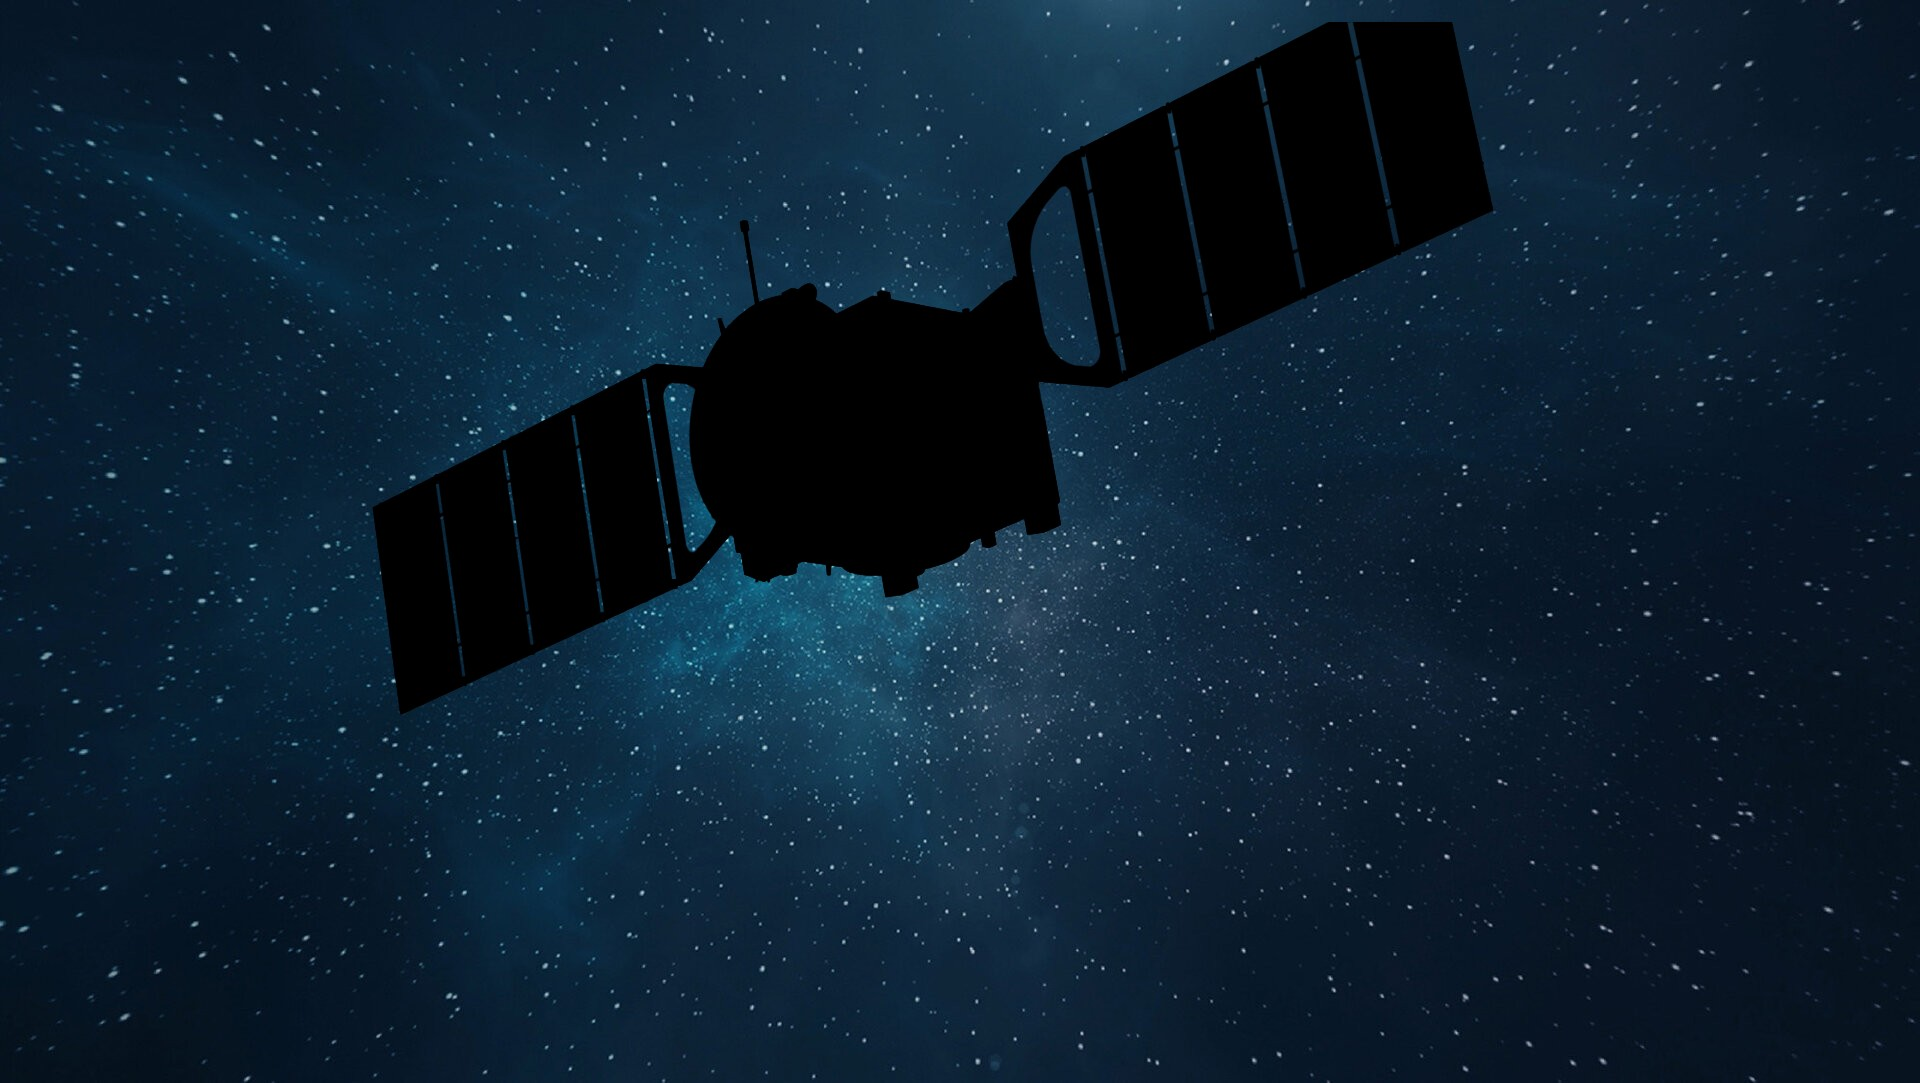
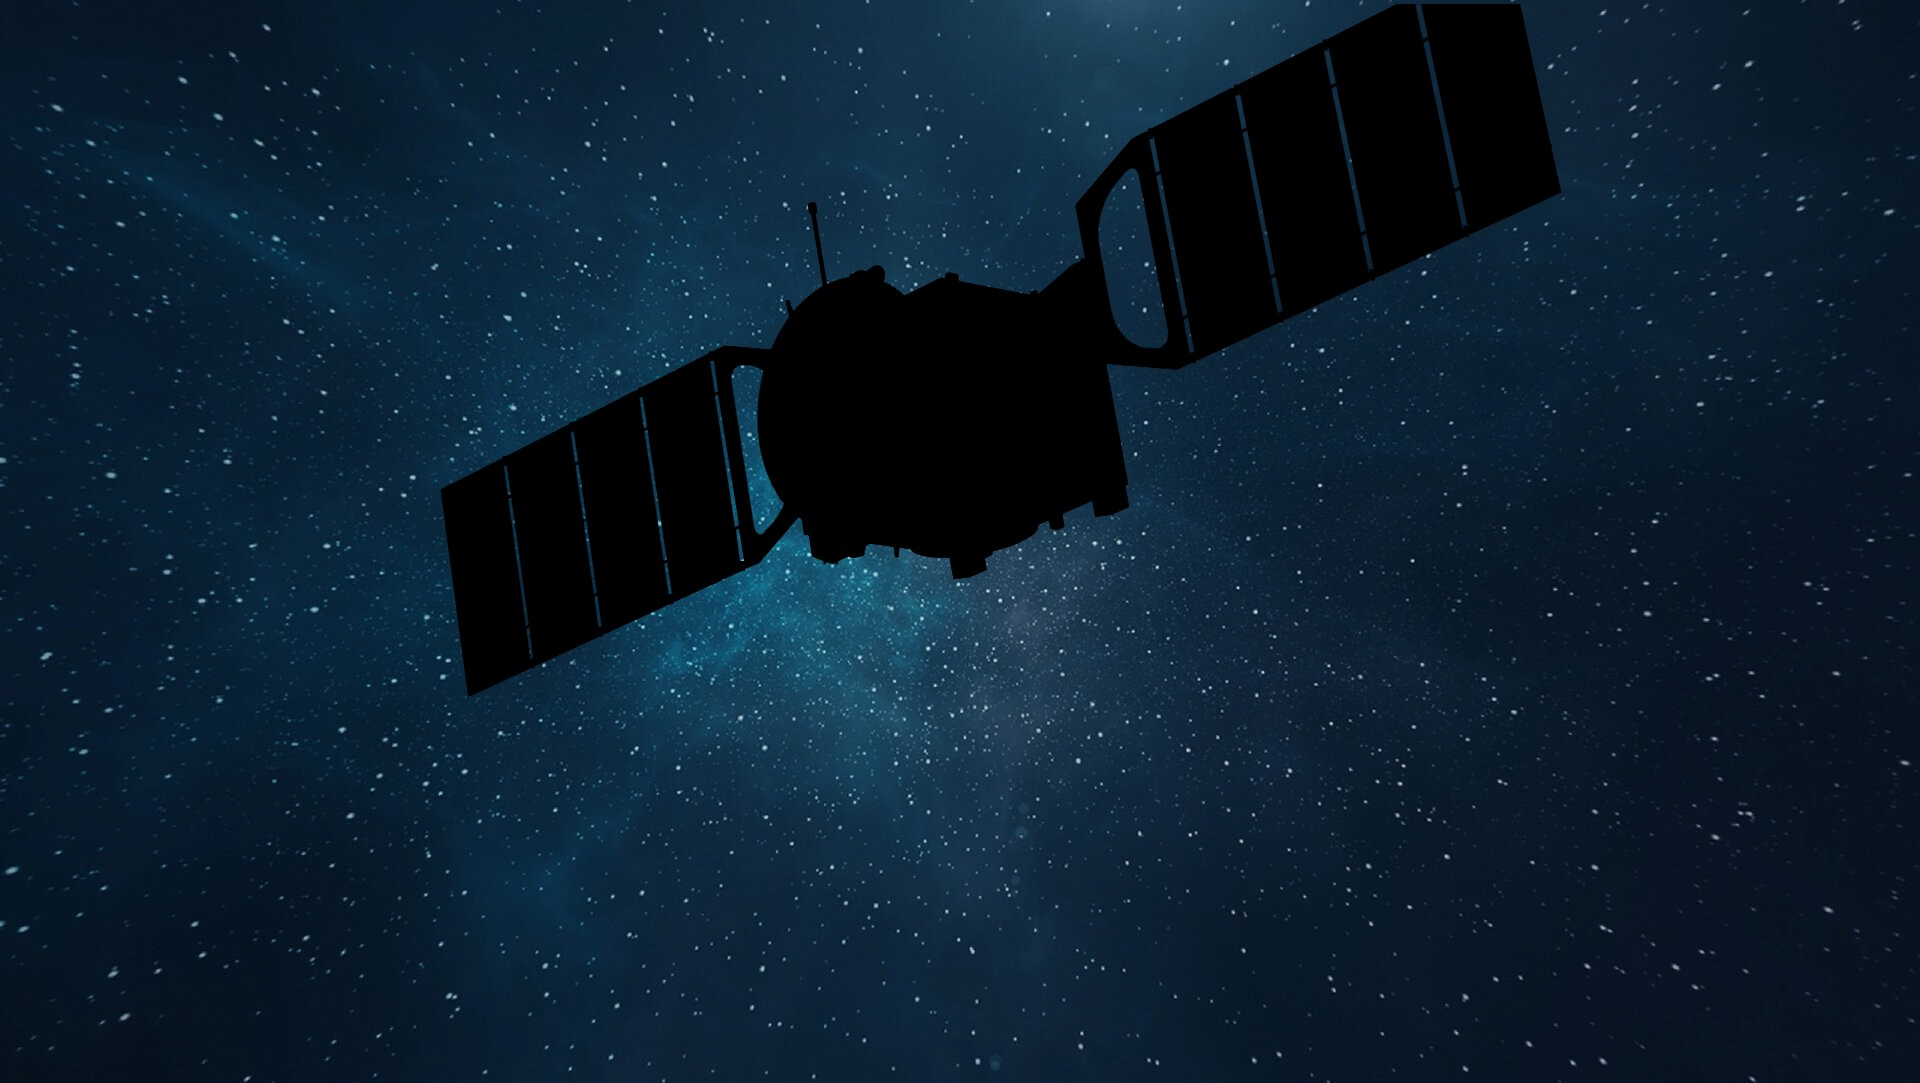
Add space2

diff --git a/assets/css/style.scss b/assets/css/style.scss
@@ -8,7 +8,7 @@ $header-bg-color-secondary: #102c3d !default;
 
 .page-header {
   background-color: $header-bg-color;
-  background-image: url("https://monolithprojects.github.io/images/space2.jpg");
+  background-image: url("https://monolithprojects.github.io/images/space.jpg");
   height: 100%;
   background-position: center;
   background-repeat: no-repeat;
